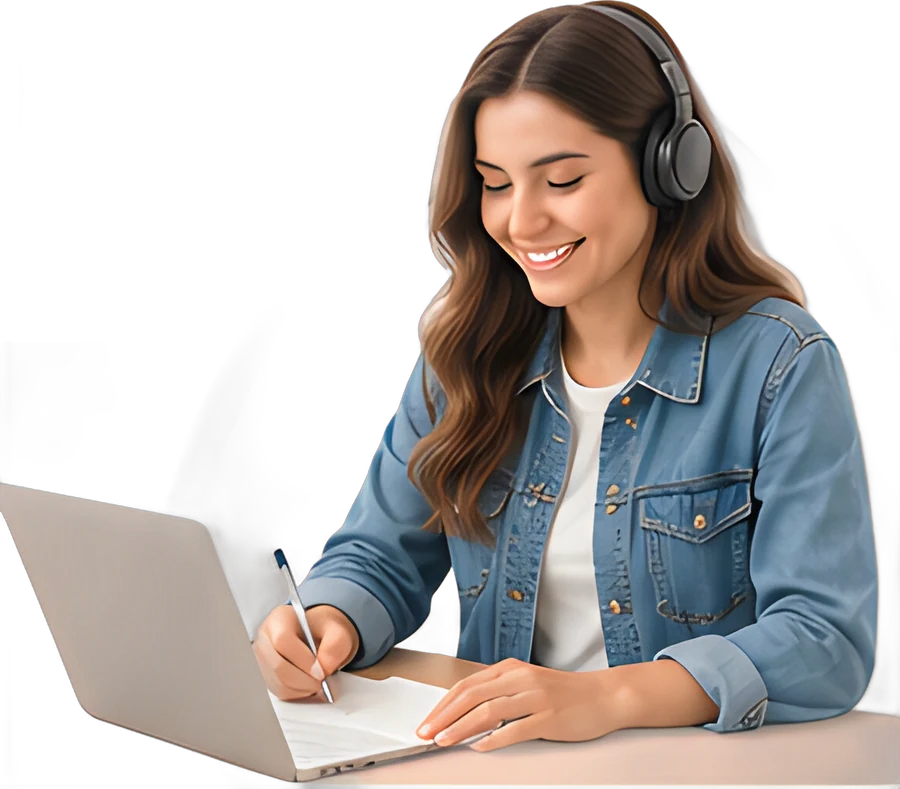
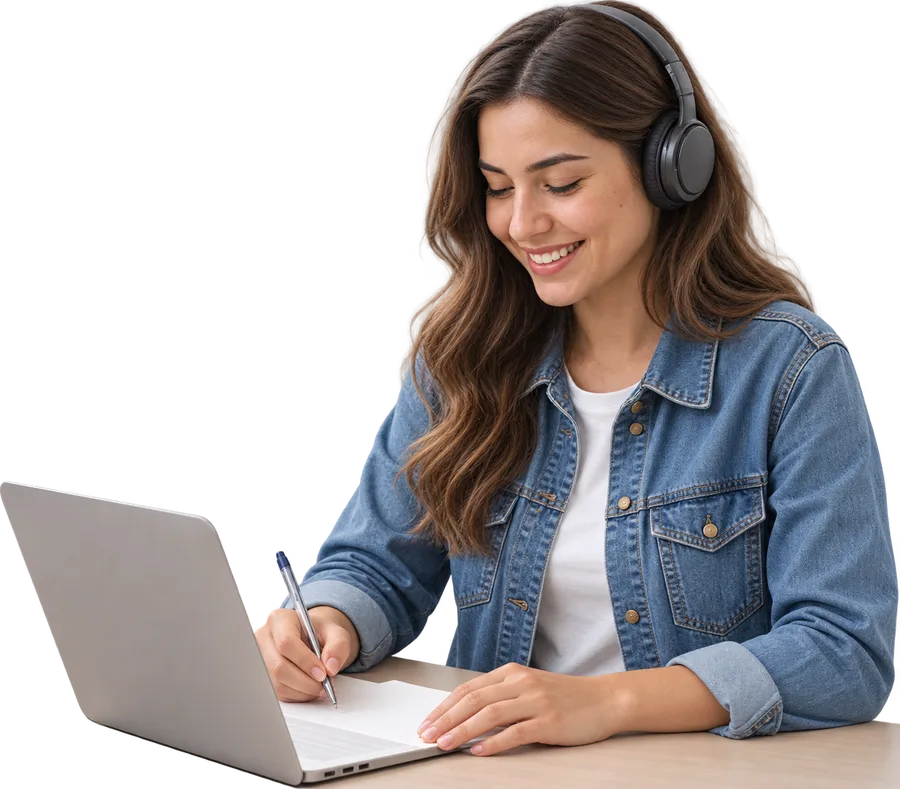
Replace UNIGRAN student photos on home and education pages

Changed region(s): [[0.0, 0.0, 1.0, 1.0]]

diff --git a/unigran.html b/unigran.html
@@ -236,7 +236,7 @@ html{scroll-behavior:auto}
 </div>
 </div>
 <div class="hero-visual">
-<div class="hero-frame"><img src="assets/unigran-estudante-notebook.webp" alt="Estudante sorrindo com fones de ouvido, fazendo anotações ao lado do notebook"></div>
+<div class="hero-frame"><img src="assets/unigran-estudante-notebook.webp?v=2" alt="Estudante sorrindo com fones de ouvido, fazendo anotações ao lado do notebook"></div>
 </div>
 </section>
 

diff --git a/index.html b/index.html
@@ -484,7 +484,7 @@ html{scroll-behavior:auto}
 </div>
 <div class="unigran-visual reveal reveal-right" data-reveal="uniR">
 <div class="unigran-frame">
-<img src="assets/unigran-estudante.webp" alt="Estudante sorridente com fones de ouvido segurando cadernos">
+<img src="assets/unigran-estudante.webp?v=2" alt="Estudante sorridente com fones de ouvido segurando cadernos">
 </div>
 <span class="unigran-badge">100% online</span>
 </div>
